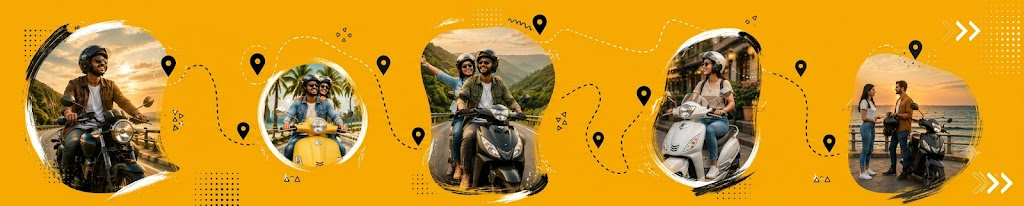
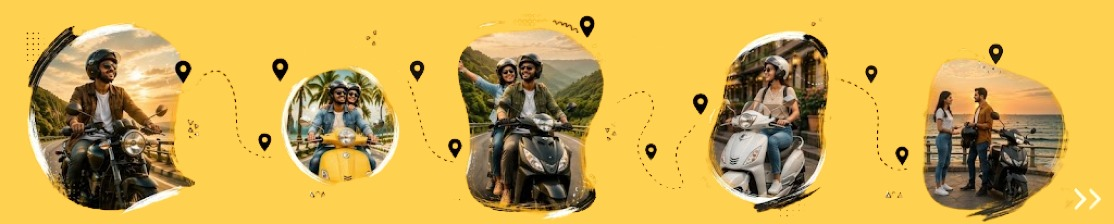
modified ui

diff --git a/components/features/searchresult/MobileFilterDrawer.tsx b/components/features/searchresult/MobileFilterDrawer.tsx
@@ -1,153 +1,3 @@
-// "use client";
-
-// import { useEffect } from "react";
-// import { createPortal } from "react-dom";
-// import FilterSidebar from "./FilterSidebar";
-// import { FilterState, FilterOptions } from "@/hooks/useVehicleFilters";
-
-// interface MobileFilterDrawerProps {
-//   isOpen: boolean;
-//   onClose: () => void;
-//   mode: "filter" | "sort";
-//   // sort
-//   sortValue: string;
-//   onSortChange: (value: string) => void;
-//   // filter — forwarded straight to FilterSidebar
-//   filters: FilterState;
-//   options: FilterOptions;
-//   onToggle: (key: keyof FilterState, value: string) => void;
-//   onPriceMaxChange: (max: number) => void;
-//   onClearAll: () => void;
-// }
-
-// export default function MobileFilterDrawer({
-//   isOpen,
-//   onClose,
-//   mode,
-//   sortValue,
-//   onSortChange,
-//   filters,
-//   options,
-//   onToggle,
-//   onPriceMaxChange,
-//   onClearAll,
-// }: MobileFilterDrawerProps) {
-//   useEffect(() => {
-//     document.body.style.overflow = isOpen ? "hidden" : "";
-//     return () => {
-//       document.body.style.overflow = "";
-//     };
-//   }, [isOpen]);
-
-//   if (!isOpen) return null;
-
-//   const sortOptions = [
-//     { value: "price_asc",  label: "Price: Low to High" },
-//     { value: "price_desc", label: "Price: High to Low" },
-//   ];
-
-//   return createPortal(
-//     <div className="fixed inset-0 z-50 flex items-end justify-center">
-//       <div
-//         className="absolute inset-0 bg-black/50 backdrop-blur-[2px]"
-//         onClick={onClose}
-//       />
-//       <div className="relative z-10 w-full bg-white rounded-t-2xl max-h-[85dvh] flex flex-col shadow-2xl">
-//         {/* Handle */}
-//         <div className="flex justify-center pt-3 pb-1 shrink-0">
-//           <div className="w-10 h-1 rounded-full bg-gray-300" />
-//         </div>
-
-//         {/* Header */}
-//         <div className="flex items-center justify-between px-5 py-3 border-b border-gray-100 shrink-0">
-//           <h2 className="font-bold text-gray-900 text-base">
-//             {mode === "filter" ? "Filter" : "Sort by"}
-//           </h2>
-//           <button
-//             onClick={onClose}
-//             className="w-8 h-8 rounded-full flex items-center justify-center text-gray-400 hover:bg-gray-100 transition-colors cursor-pointer"
-//           >
-//             <svg
-//               className="w-5 h-5"
-//               fill="none"
-//               stroke="currentColor"
-//               viewBox="0 0 24 24"
-//             >
-//               <path
-//                 d="M6 18L18 6M6 6l12 12"
-//                 strokeLinecap="round"
-//                 strokeLinejoin="round"
-//                 strokeWidth="2"
-//               />
-//             </svg>
-//           </button>
-//         </div>
-
-//         {/* Content */}
-//         <div className="flex-1 overflow-y-auto overscroll-contain">
-//           {mode === "filter" ? (
-//             // Pass all filter state/handlers into the shared FilterSidebar
-//             <FilterSidebar
-//               filters={filters}
-//               options={options}
-//               onToggle={onToggle}
-//               onPriceMaxChange={onPriceMaxChange}
-//               onClearAll={onClearAll}
-//             />
-//           ) : (
-//             <div className="py-2">
-//               {sortOptions.map((opt) => (
-//                 <button
-//                   key={opt.value}
-//                   onClick={() => {
-//                     onSortChange(opt.value);
-//                     onClose();
-//                   }}
-//                   className={`w-full flex items-center justify-between px-5 py-4 text-sm transition-colors cursor-pointer ${
-//                     sortValue === opt.value
-//                       ? "text-gray-900 font-semibold bg-[#fff8e1]"
-//                       : "text-gray-700 hover:bg-gray-50"
-//                   }`}
-//                 >
-//                   <span>{opt.label}</span>
-//                   {sortValue === opt.value && (
-//                     <svg
-//                       className="w-4 h-4 text-brand-yellow"
-//                       fill="none"
-//                       stroke="currentColor"
-//                       viewBox="0 0 24 24"
-//                     >
-//                       <path
-//                         d="M5 13l4 4L19 7"
-//                         strokeLinecap="round"
-//                         strokeLinejoin="round"
-//                         strokeWidth="2.5"
-//                       />
-//                     </svg>
-//                   )}
-//                 </button>
-//               ))}
-//             </div>
-//           )}
-//         </div>
-
-//         {/* Footer – filter mode only */}
-//         {mode === "filter" && (
-//           <div className="shrink-0 px-5 py-4 border-t border-gray-100">
-//             <button
-//               onClick={onClose}
-//               className="w-full bg-brand-yellow hover:bg-yellow-500 text-black font-semibold py-3 rounded-xl text-sm transition-colors cursor-pointer"
-//             >
-//               Show Results
-//             </button>
-//           </div>
-//         )}
-//       </div>
-//     </div>,
-//     document.body
-//   );
-// }
-
 "use client";
 
 import { useEffect } from "react";

diff --git a/app/globals.css b/app/globals.css
@@ -5,7 +5,7 @@
 
 /* ── Brand theme (Tailwind v4 config lives here, not in tailwind.config.ts) ── */
 @theme {
-  /* --color-brand-yellow: #ffc107; */
+  --color-brand-yellow-lg: #ffc107;
   --color-brand-yellow: #fed250;
   --color-font-main-sub: #1a1a1a;
   --color-font-dim: #595959;

diff --git a/components/features/search/HeroSection.tsx b/components/features/search/HeroSection.tsx
@@ -7,7 +7,7 @@ export default function HeroSection() {
           alt="Motorcycle in scenic location"
           className="w-full h-full object-cover object-center bg-black/80"
           // src="https://media.publit.io/file/ChatGPT-Image-May-1-2026-11-35-56-AM.png"
-          src="heroimage.png"
+          src="2.png"
         />
         {/* <div className="absolute inset-0 bg-[linear-gradient(90deg,rgba(255,255,255,0.85)_35%,rgba(255,255,255,0)_72%)] md:bg-[linear-gradient(90deg,rgba(255,255,255,0.75)_25%,rgba(255,255,255,0)_65%)]" /> */}
       </div>

diff --git a/components/features/searchresult/SearchResultsClient.tsx b/components/features/searchresult/SearchResultsClient.tsx
@@ -207,7 +207,7 @@ function TabButton({
   return (
     <button
       onClick={onClick}
-      className={`pb-2.5 px-4 text-sm font-medium border-b-2 -mb-px transition-colors cursor-pointer flex items-center gap-1.5
+      className={`pb-1.5 pr-4   text-[14.5px] font-medium border-b-2 -mb-px transition-colors cursor-pointer flex items-center gap-1.5
         ${active ? activeColor : "border-transparent font-extralight text-gray-500 hover:text-gray-700"}`}
     >
       {icon}